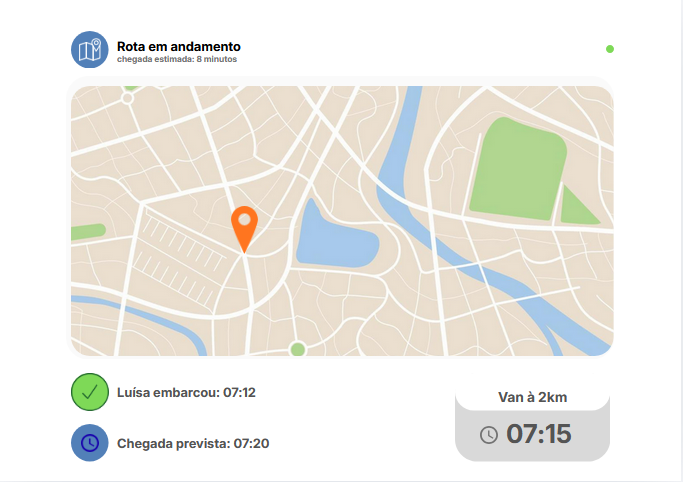
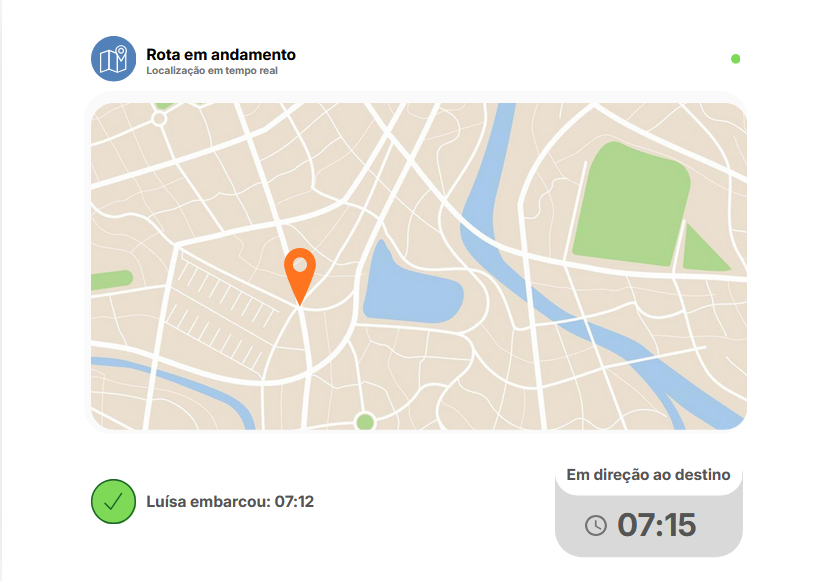
corrige caminhos de imagens para produção (remove prefixo /rota-segura/public/)

diff --git a/resources/js/Pages/Welcome.vue b/resources/js/Pages/Welcome.vue
@@ -1,4 +1,4 @@
-<script setup>
+<script setup>
 import { Link } from '@inertiajs/vue3'
 import { ref, onMounted, onUnmounted } from 'vue';
 import { onClickOutside } from '@vueuse/core';
@@ -48,7 +48,7 @@ onUnmounted(() => window.removeEventListener('scroll', handleScroll))
             <div class="rs-nav__inner">
                 <Link href="/rota-segura/public/" class="rs-nav__logo">
                     <div class="rs-nav__logo-ring">
-                        <img src="/rota-segura/public/images/Logo_rota-segura_branco.png" alt="Logo Rota Segura" class="rs-nav__logo-img" />
+                        <img src="/images/Logo_rota-segura_branco.png" alt="Logo Rota Segura" class="rs-nav__logo-img" />
                     </div>
                     <span class="rs-nav__logo-text">Rota Segura</span>
                 </Link>
@@ -110,7 +110,7 @@ onUnmounted(() => window.removeEventListener('scroll', handleScroll))
                 <div class="rs-hero__media" :class="{ 'rs-hero__media--in': heroVisible }">
                     <div class="rs-img-card">
                         <div class="rs-img-card__bg"></div>
-                        <img src="/rota-segura/public/images/mapa_tempo_real.png" alt="Mapa com acompanhamento em tempo real" class="rs-img-card__img" />
+                        <img src="/images/mapa_tempo_real.png" alt="Mapa com acompanhamento em tempo real" class="rs-img-card__img" />
                         <div class="rs-float rs-float--bottom-left">
                             <span class="rs-float__pulse"></span>
                             <span>Localização em tempo real!</span>
@@ -235,7 +235,7 @@ onUnmounted(() => window.removeEventListener('scroll', handleScroll))
                             <svg xmlns="http://www.w3.org/2000/svg" fill="none" viewBox="0 0 24 24" stroke-width="2.5" stroke="currentColor" class="rs-modal__close-icon"><path stroke-linecap="round" stroke-linejoin="round" d="M6 18L18 6M6 6l12 12"/></svg>
                         </button>
                         <div class="rs-modal__logo">
-                            <img src="/rota-segura/public/images/Logo_rota-segura_branco.png" class="rs-modal__logo-img" alt="" />
+                            <img src="/images/Logo_rota-segura_branco.png" class="rs-modal__logo-img" alt="" />
                         </div>
                         <h1 class="rs-modal__title">Criar conta</h1>
                         <p class="rs-modal__sub">Como você quer se cadastrar?</p>

diff --git a/resources/js/Pages/Auth/RegisterMotorista.vue b/resources/js/Pages/Auth/RegisterMotorista.vue
@@ -1,4 +1,4 @@
-<script setup>
+<script setup>
 import { ref, computed } from 'vue'
 import { Head, Link, useForm } from '@inertiajs/vue3'
 import { CameraIcon, ArrowLeftIcon } from '@heroicons/vue/24/outline'
@@ -94,7 +94,7 @@ const inputClass = computed(() => (err) =>
                        shadow-[12px_0_40px_-12px_rgba(0,0,0,0.25)]">
 
             <Link :href="route('home')" class="inline-flex items-center">
-                <img src="/rota-segura/public/images/Logo_rota-segura_branco.png" alt="Rota Segura" class="h-9 w-auto">
+                <img src="/images/Logo_rota-segura_branco.png" alt="Rota Segura" class="h-9 w-auto">
             </Link>
 
             <div>
@@ -147,7 +147,7 @@ const inputClass = computed(() => (err) =>
                 <!-- Banner mobile (substitui o aside) -->
                 <div class="lg:hidden rounded-2xl bg-gradient-to-br from-amber-700 to-amber-800 px-5 py-5 mb-6 text-white">
                     <Link :href="route('home')" class="inline-flex items-center gap-2 mb-4 hover:opacity-80 transition">
-                        <img src="/rota-segura/public/images/Logo_rota-segura_branco.png" alt="Rota Segura" class="h-7 w-7">
+                        <img src="/images/Logo_rota-segura_branco.png" alt="Rota Segura" class="h-7 w-7">
                         <span class="font-bold text-sm">Rota Segura</span>
                     </Link>
                     <p class="text-xs font-semibold text-amber-200 tracking-widest uppercase mb-1.5">Para motoristas</p>

diff --git a/resources/js/Pages/Responsavel/Passageiro/enderecos.vue b/resources/js/Pages/Responsavel/Passageiro/enderecos.vue
@@ -1,4 +1,4 @@
-<script setup>
+<script setup>
 import { ref } from 'vue'
 import { Head, Link, useForm } from '@inertiajs/vue3'
 import { MapPinIcon, LightBulbIcon, CameraIcon } from '@heroicons/vue/24/outline'
@@ -149,7 +149,7 @@ const addrInput = (ring = 'emerald') =>
                        shadow-[10px_0_50px_-15px_rgba(0,0,0,0.3)]">
 
             <Link :href="route('home')" class="flex items-center gap-2 hover:opacity-80 transition">
-                <img src="/rota-segura/public/images/Logo_rota-segura_branco.png" alt="Logo Rota Segura" class="h-12 w-12" />
+                <img src="/images/Logo_rota-segura_branco.png" alt="Logo Rota Segura" class="h-12 w-12" />
                 <span class="text-white font-bold text-lg tracking-tight">Rota Segura</span>
             </Link>
 
@@ -214,7 +214,7 @@ const addrInput = (ring = 'emerald') =>
 
                 <!-- Logo mobile -->
                 <div class="lg:hidden flex items-center gap-2 mb-8">
-                    <img src="/rota-segura/public/images/Logo_rota_segura-azul.png" alt="Rota Segura" class="h-10 w-10">
+                    <img src="/images/Logo_rota_segura-azul.png" alt="Rota Segura" class="h-10 w-10">
                     <span class="text-slate-900 font-bold">Rota Segura</span>
                 </div>
 

diff --git a/resources/js/Pages/Auth/VerifyEmail.vue b/resources/js/Pages/Auth/VerifyEmail.vue
@@ -1,4 +1,4 @@
-<script setup>
+<script setup>
 import { computed, ref, onMounted } from 'vue'
 import { Head, Link, useForm } from '@inertiajs/vue3'
 
@@ -31,7 +31,7 @@ const submit = () => {
 
             <Link :href="route('home')" class="lg-aside__logo">
                 <div class="lg-aside__logo-ring">
-                    <img src="/rota-segura/public/images/Logo_rota-segura_branco.png" alt="Logo Rota Segura" class="lg-aside__logo-img" />
+                    <img src="/images/Logo_rota-segura_branco.png" alt="Logo Rota Segura" class="lg-aside__logo-img" />
                 </div>
                 <span class="lg-aside__logo-text">Rota Segura</span>
             </Link>
@@ -52,7 +52,7 @@ const submit = () => {
                 <!-- Logo mobile -->
                 <div class="lg-mobile-logo">
                     <div class="lg-mobile-logo__ring">
-                        <img src="/rota-segura/public/images/Logo_rota_segura-azul.png" alt="Logo Rota-Segura" class="lg-mobile-logo__img" />
+                        <img src="/images/Logo_rota_segura-azul.png" alt="Logo Rota-Segura" class="lg-mobile-logo__img" />
                     </div>
                     <span class="lg-mobile-logo__text">Rota Segura</span>
                 </div>

diff --git a/resources/js/Pages/Auth/ForgotPassword.vue b/resources/js/Pages/Auth/ForgotPassword.vue
@@ -1,4 +1,4 @@
-<script setup>
+<script setup>
 import { Head, Link, useForm } from '@inertiajs/vue3'
 import { onMounted, ref } from 'vue'
 
@@ -33,7 +33,7 @@ const submit = () => {
 
             <Link :href="route('home')" class="lg-aside__logo">
                 <div class="lg-aside__logo-ring">
-                    <img src="/rota-segura/public/images/Logo_rota-segura_branco.png" alt="Logo Rota Segura" class="lg-aside__logo-img" />
+                    <img src="/images/Logo_rota-segura_branco.png" alt="Logo Rota Segura" class="lg-aside__logo-img" />
                 </div>
                 <span class="lg-aside__logo-text">Rota Segura</span>
             </Link>
@@ -60,7 +60,7 @@ const submit = () => {
                 <!-- Logo mobile -->
                 <div class="lg-mobile-logo">
                     <div class="lg-mobile-logo__ring">
-                        <img src="/rota-segura/public/images/Logo_rota_segura-azul.png" alt="Logo Rota-Segura" class="lg-mobile-logo__img" />
+                        <img src="/images/Logo_rota_segura-azul.png" alt="Logo Rota-Segura" class="lg-mobile-logo__img" />
                     </div>
                     <span class="lg-mobile-logo__text">Rota Segura</span>
                 </div>

diff --git a/resources/js/Pages/Auth/Login.vue b/resources/js/Pages/Auth/Login.vue
@@ -1,4 +1,4 @@
-<script setup>
+<script setup>
 import { useForm, Link, Head } from '@inertiajs/vue3'
 import { ref, onMounted } from 'vue'
 
@@ -37,7 +37,7 @@ const submit = () => {
 
             <Link :href="route('home')" class="lg-aside__logo">
                 <div class="lg-aside__logo-ring">
-                    <img src="/rota-segura/public/images/Logo_rota-segura_branco.png" alt="Logo Rota Segura" class="lg-aside__logo-img" />
+                    <img src="/images/Logo_rota-segura_branco.png" alt="Logo Rota Segura" class="lg-aside__logo-img" />
                 </div>
                 <span class="lg-aside__logo-text">Rota Segura</span>
             </Link>
@@ -64,7 +64,7 @@ const submit = () => {
                 <!-- Logo mobile -->
                 <div class="lg-mobile-logo">
                     <div class="lg-mobile-logo__ring">
-                        <img src="/rota-segura/public/images/Logo_rota_segura-azul.png" alt="Logo Rota-Segura" class="lg-mobile-logo__img" />
+                        <img src="/images/Logo_rota_segura-azul.png" alt="Logo Rota-Segura" class="lg-mobile-logo__img" />
                     </div>
                     <span class="lg-mobile-logo__text">Rota Segura</span>
                 </div>

diff --git a/resources/js/Pages/Auth/ResetPassword.vue b/resources/js/Pages/Auth/ResetPassword.vue
@@ -1,4 +1,4 @@
-<script setup>
+<script setup>
 import { ref, onMounted } from 'vue'
 import { Head, Link, useForm } from '@inertiajs/vue3'
 
@@ -40,7 +40,7 @@ const submit = () => {
 
             <Link :href="route('home')" class="lg-aside__logo">
                 <div class="lg-aside__logo-ring">
-                    <img src="/rota-segura/public/images/Logo_rota-segura_branco.png" alt="Logo Rota Segura" class="lg-aside__logo-img" />
+                    <img src="/images/Logo_rota-segura_branco.png" alt="Logo Rota Segura" class="lg-aside__logo-img" />
                 </div>
                 <span class="lg-aside__logo-text">Rota Segura</span>
             </Link>
@@ -61,7 +61,7 @@ const submit = () => {
                 <!-- Logo mobile -->
                 <div class="lg-mobile-logo">
                     <div class="lg-mobile-logo__ring">
-                        <img src="/rota-segura/public/images/Logo_rota_segura-azul.png" alt="Logo Rota-Segura" class="lg-mobile-logo__img" />
+                        <img src="/images/Logo_rota_segura-azul.png" alt="Logo Rota-Segura" class="lg-mobile-logo__img" />
                     </div>
                     <span class="lg-mobile-logo__text">Rota Segura</span>
                 </div>

diff --git a/resources/js/Pages/Auth/ConfirmPassword.vue b/resources/js/Pages/Auth/ConfirmPassword.vue
@@ -1,4 +1,4 @@
-<script setup>
+<script setup>
 import { ref, onMounted } from 'vue'
 import { Head, useForm } from '@inertiajs/vue3'
 
@@ -31,7 +31,7 @@ const submit = () => {
 
             <a href="/" class="lg-aside__logo">
                 <div class="lg-aside__logo-ring">
-                    <img src="/rota-segura/public/images/Logo_rota-segura_branco.png" alt="Logo Rota Segura" class="lg-aside__logo-img" />
+                    <img src="/images/Logo_rota-segura_branco.png" alt="Logo Rota Segura" class="lg-aside__logo-img" />
                 </div>
                 <span class="lg-aside__logo-text">Rota Segura</span>
             </a>
@@ -52,7 +52,7 @@ const submit = () => {
                 <!-- Logo mobile -->
                 <div class="lg-mobile-logo">
                     <div class="lg-mobile-logo__ring">
-                        <img src="/rota-segura/public/images/Logo_rota_segura-azul.png" alt="Rota Segura" class="lg-mobile-logo__img" />
+                        <img src="/images/Logo_rota_segura-azul.png" alt="Rota Segura" class="lg-mobile-logo__img" />
                     </div>
                     <span class="lg-mobile-logo__text">Rota Segura</span>
                 </div>

diff --git a/resources/js/Pages/Responsavel/Passageiro/create.vue b/resources/js/Pages/Responsavel/Passageiro/create.vue
@@ -1,4 +1,4 @@
-<script setup>
+<script setup>
 import { computed } from 'vue'
 import { Head, Link, useForm } from '@inertiajs/vue3'
 
@@ -59,7 +59,7 @@ const inputClass = computed(() => (err) =>
                        shadow-[10px_0_50px_-15px_rgba(0,0,0,0.3)]">
 
             <Link :href="route('home')" class="flex items-center gap-2 hover:opacity-80 transition">
-                <img src="/rota-segura/public/images/Logo_rota-segura_branco.png" alt="Rota Segura" class="h-12 w-12">
+                <img src="/images/Logo_rota-segura_branco.png" alt="Rota Segura" class="h-12 w-12">
                 <span class="text-white font-bold text-lg tracking-tight">Rota Segura</span>
             </Link>
 
@@ -103,7 +103,7 @@ const inputClass = computed(() => (err) =>
 
                 <!-- Logo mobile -->
                 <div class="lg:hidden flex items-center gap-2 mb-8">
-                    <img src="/rota-segura/public/images/Logo_rota_segura-azul.png" alt="Rota Segura" class="h-10 w-10">
+                    <img src="/images/Logo_rota_segura-azul.png" alt="Rota Segura" class="h-10 w-10">
                     <span class="text-slate-900 font-bold">Rota Segura</span>
                 </div>
 

diff --git a/resources/js/Pages/Auth/RegisterResponsavel.vue b/resources/js/Pages/Auth/RegisterResponsavel.vue
@@ -1,4 +1,4 @@
-<script setup>
+<script setup>
 import { ref, computed } from 'vue'
 import { Head, Link, useForm } from '@inertiajs/vue3'
 import { CameraIcon, ArrowLeftIcon } from '@heroicons/vue/24/outline'
@@ -90,7 +90,7 @@ const inputClass = computed(() => (err) =>
                        shadow-[12px_0_40px_-12px_rgba(0,0,0,0.25)]">
 
             <Link :href="route('home')" class="inline-flex items-center">
-                <img src="/rota-segura/public/images/Logo_rota-segura_branco.png" alt="Rota Segura" class="h-9 w-auto">
+                <img src="/images/Logo_rota-segura_branco.png" alt="Rota Segura" class="h-9 w-auto">
             </Link>
 
             <div>
@@ -112,7 +112,7 @@ const inputClass = computed(() => (err) =>
 
                 <!-- Logo mobile -->
                 <div class="lg:hidden flex items-center gap-2 mb-8">
-                    <img src="/rota-segura/public/images/Logo_rota_segura-azul.png" alt="Rota Segura" class="h-9 w-9">
+                    <img src="/images/Logo_rota_segura-azul.png" alt="Rota Segura" class="h-9 w-9">
                     <span class="text-slate-900 font-bold">Rota Segura</span>
                 </div>
 

diff --git a/resources/js/Components/Responsavel/Layout/Sidebar.vue b/resources/js/Components/Responsavel/Layout/Sidebar.vue
@@ -1,4 +1,4 @@
-<script setup>
+<script setup>
 import { Link } from '@inertiajs/vue3'
 import {
     HomeIcon,
@@ -30,7 +30,7 @@ const navItems = [
         <!-- Logo -->
         <div class="px-5 py-5 border-b border-blue-700/40">
             <Link :href="route('home')" class="flex items-center gap-2.5">
-                <img src="/rota-segura/public/images/Logo_rota_segura-azul.png" alt="Logo Rota Segura" class="h-9 w-9" />
+                <img src="/images/Logo_rota_segura-azul.png" alt="Logo Rota Segura" class="h-9 w-9" />
                 <div>
                     <p class="text-[10px] text-blue-300 font-semibold uppercase tracking-widest leading-none mb-0.5">Responsável</p>
                     <p class="text-sm font-bold text-white leading-none">Rota Segura</p>

diff --git a/resources/js/Components/Motorista/Layout/Sidebar.vue b/resources/js/Components/Motorista/Layout/Sidebar.vue
@@ -1,4 +1,4 @@
-<script setup>
+<script setup>
 import { Link } from '@inertiajs/vue3'
 import {
     HomeIcon,
@@ -33,7 +33,7 @@ const navItems = [
         <!-- Logo -->
         <div class="px-5 py-5 border-b border-amber-800/30">
             <Link :href="route('home')" class="flex items-center gap-2.5">
-                <img src="/rota-segura/public/images/Logo_rota-segura_branco.png" alt="Rota Segura" class="h-9 w-auto" />
+                <img src="/images/Logo_rota-segura_branco.png" alt="Rota Segura" class="h-9 w-auto" />
                 <div>
                     <p class="text-[10px] text-amber-200 font-semibold uppercase tracking-widest leading-none mb-0.5">Motorista</p>
                     <p class="text-sm font-bold text-white leading-none">Rota Segura</p>
